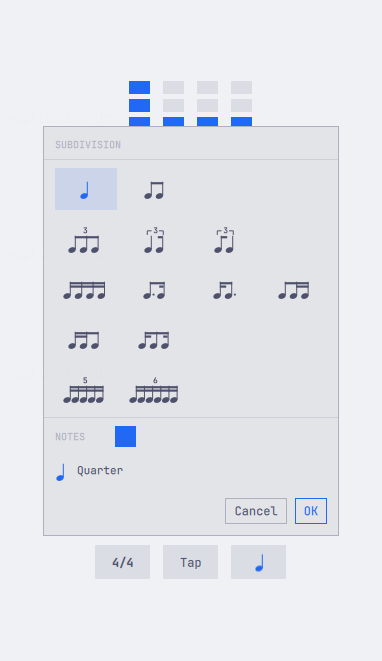
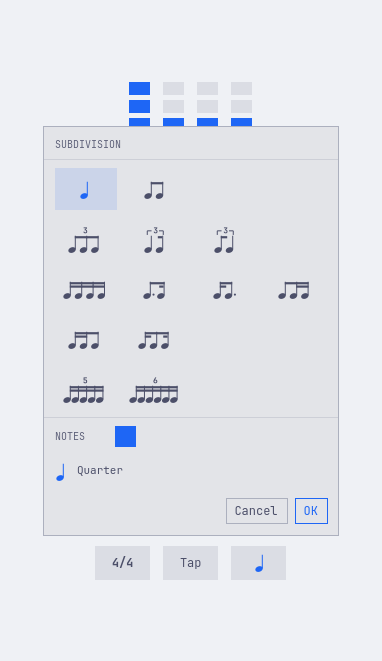
release: 0.1.2
The README's screenshots are retaken with the readable captions, in the
same two themes, views and window size as before: the dialog titles read
at 4.54 in Tokyo Night and 4.70 in Catppuccin Latte, where they were
2.03 and 1.68. Cargo.toml, the metainfo and CHANGELOG.md move to 0.1.2.

diff --git a/CHANGELOG.md b/CHANGELOG.md
@@ -4,7 +4,7 @@ All notable changes to this project are recorded here. The format follows
 [Keep a Changelog](https://keepachangelog.com/en/1.1.0/), and versions follow
 [Semantic Versioning](https://semver.org/).
 
-## [Unreleased]
+## [0.1.2] - 2026-09-15
 
 ### Fixed
 
@@ -14,6 +14,10 @@ All notable changes to this project are recorded here. The format follows
   caption is now lifted toward the foreground only as far as it takes to
   reach 4.5:1 on the surface behind it, so a theme that already reads well
   keeps its own ink.
+
+### Changed
+
+- The README's screenshots are retaken with the readable captions.
 
 ## [0.1.1] - 2026-09-15
 
